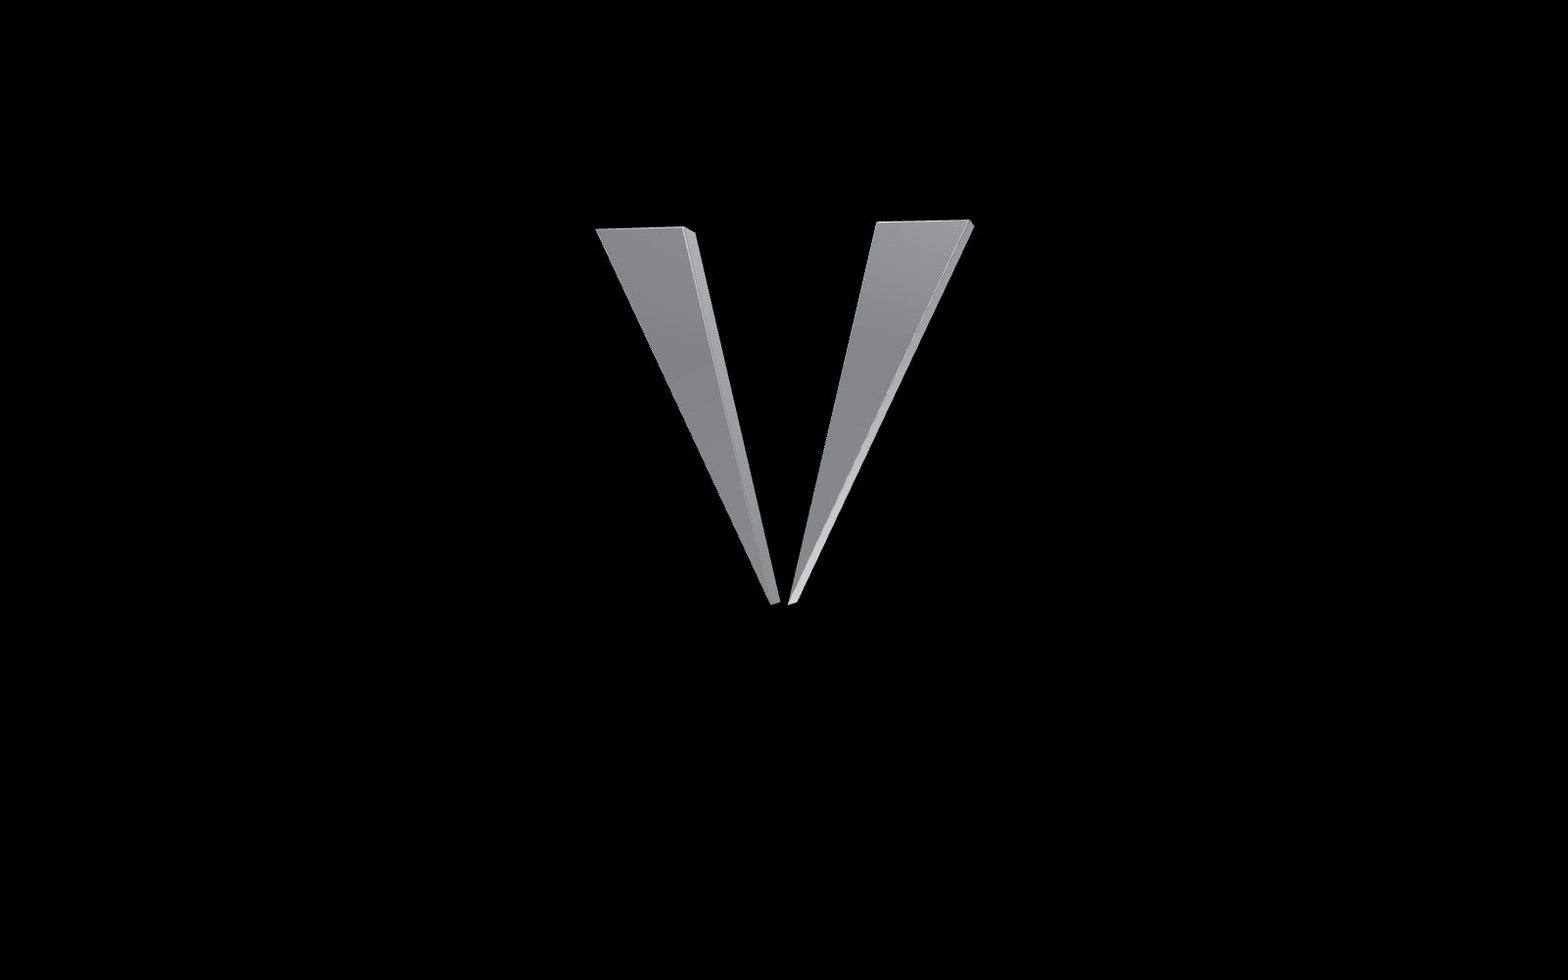
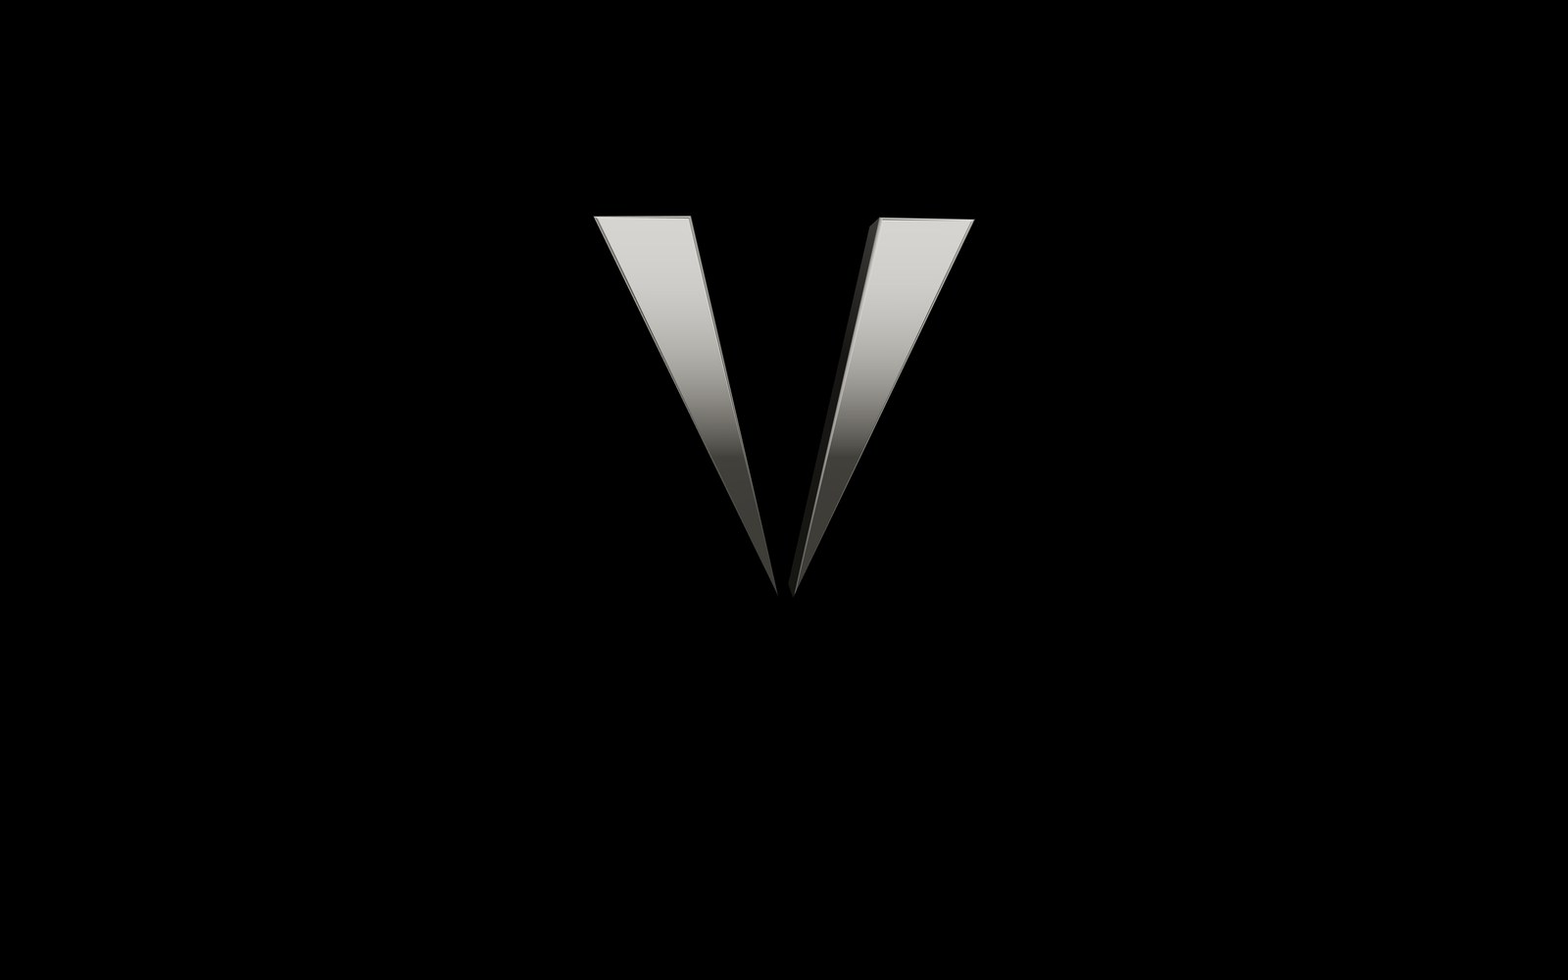
Hero: «La linterna» sustituye a «El corte»; el cursor es una luz que descubre el isotipo de titanio
Claude-Session: https://claude.ai/code/session_01GnbADJLZybL7RCxfxcmveb

Changed region(s): [[0.375, 0.217, 0.625, 0.62]]

diff --git a/web/index.html b/web/index.html
@@ -881,7 +881,7 @@ footer .bot{display:flex;justify-content:space-between;gap:20px;flex-wrap:wrap;m
   var intro = $('intro'), deep = location.hash.length > 1 && D.querySelector(location.hash);
   function ready() {
     root.classList.add('is-ready'); if (!W.HX.go) W.HX.go = performance.now();
-    /* el titular del hero entra cuando termina el corte (lo marca la escena 3D); si no hay 3D, ya */
+    /* el titular del hero entra cuando se enciende la luz (lo marca la escena 3D); si no hay 3D, ya */
     if (!W.HX.cut || RM) root.classList.add('hero-in'); else setTimeout(function () { root.classList.add('hero-in'); }, 9000);
   }
   if (RM || deep || !intro) {
@@ -1431,10 +1431,10 @@ else {
 </script>
 
 <script type="module">
-/* Hero · El corte. Un bloque macizo de titanio liso aparece en la oscuridad; cuatro cuchillas de luz
-   lo atraviesan, con destello y chispas que rebotan en un suelo espejo; el material sobrante se aleja
-   a cámara lenta y queda el isotipo. Con el scroll, las dos cuñas se abren y dejan una línea de luz
-   (la firma que se cierra en Hablemos). La secuencia del corte se reproduce sola al entrar. */
+/* Hero · La linterna. Todo está a oscuras: el isotipo de titanio liso está ahí, pero no se ve. El cursor es
+   una luz que lo va descubriendo por sus reflejos, con un círculo tenue sobre la pared del fondo. Si nadie
+   mueve el ratón (o en el móvil), la luz pasea sola sobre la pieza. Con el scroll, la luz se abre del todo
+   y el isotipo queda entero, en titanio, mientras entra «Precisión. Sin margen.». */
 const D = document, W = window, stage = D.getElementById('stage'), canvas = D.getElementById('gl'), root = D.documentElement, HX = W.HX;
 const heroIn = () => root.classList.add('hero-in');
 const fail = () => { root.classList.add('no-gl'); heroIn(); };
@@ -1443,11 +1443,11 @@ else {
   HX.cut = true;
   try {
     const THREE = await import('three');
-    const [{ Reflector }, { EffectComposer }, { RenderPass }, { UnrealBloomPass }, { OutputPass }] = await Promise.all([
-      import('three/addons/objects/Reflector.js'), import('three/addons/postprocessing/EffectComposer.js'), import('three/addons/postprocessing/RenderPass.js'),
+    const [{ EffectComposer }, { RenderPass }, { UnrealBloomPass }, { OutputPass }] = await Promise.all([
+      import('three/addons/postprocessing/EffectComposer.js'), import('three/addons/postprocessing/RenderPass.js'),
       import('three/addons/postprocessing/UnrealBloomPass.js'), import('three/addons/postprocessing/OutputPass.js')]);
     const cl = (v, a, b) => v < a ? a : v > b ? b : v, sg = (v, a, b) => cl((v - a) / (b - a), 0, 1), lerp = (a, b, t) => a + (b - a) * t;
-    const eIO = t => t < .5 ? 4 * t * t * t : 1 - Math.pow(-2 * t + 2, 3) / 2, eo = t => 1 - Math.pow(1 - t, 4), ss = t => t * t * (3 - 2 * t);
+    const eIO = t => t < .5 ? 4 * t * t * t : 1 - Math.pow(-2 * t + 2, 3) / 2, eo = t => 1 - Math.pow(1 - t, 4);
     const renderer = new THREE.WebGLRenderer({ canvas, antialias: true, powerPreference: 'high-performance' });
     renderer.setPixelRatio(Math.min(W.devicePixelRatio || 1, 2)); renderer.setClearColor(0, 1);
     renderer.outputColorSpace = THREE.SRGBColorSpace; renderer.toneMapping = THREE.ACESFilmicToneMapping; renderer.toneMappingExposure = 1.05;
@@ -1458,125 +1458,68 @@ else {
       pan(7, 7, 0, 7, 1, 1.1); pan(14, 6, 0, 3, 9, .55); pan(6, 10, -7, 1, -2, .35); pan(6, 10, 7, 1, -2, .3); pan(1.1, 9, -6, 1, 1.5, 2.2); pan(.5, 9, 6, .5, 2.5, 2.6);
       pan(12, 4, 0, 2.4, 7, 1.05); pan(3, 7, -5, 0, 5, .5); pan(9, 1.2, 0, -2.5, 7, .35); pan(9, .35, 0, 2.2, -6, 2); pan(.35, 6, 3.5, 1, -5, 1.6); pan(2.5, .25, -2, 4.2, 4, 2);
       const pm = new THREE.PMREMGenerator(renderer), t = pm.fromScene(s, 0).texture; pm.dispose(); return t; })();
-    const scene = new THREE.Scene(); scene.environment = env; scene.fog = new THREE.Fog(0, 5.2, 9.5);
+    const scene = new THREE.Scene(); scene.environment = env;
     const cam = new THREE.PerspectiveCamera(30, 1, .02, 100);
-    const TI = new THREE.Color().setRGB(.80, .79, .76, THREE.SRGBColorSpace);
-    const ti = () => new THREE.MeshPhysicalMaterial({ color: TI, metalness: 1, roughness: .2, clearcoat: .5, clearcoatRoughness: .1, envMapIntensity: 0 });
-    const bm = ti(), wm = ti();
+    /* la luz: un círculo en pantalla (centro uC, radio uR) que enciende el titanio; uA es la luz de fondo */
+    const U = { uC: { value: new THREE.Vector2() }, uR: { value: 1 }, uA: { value: 0 }, uW: { value: 1 } };
+    const mat = new THREE.MeshPhysicalMaterial({ color: new THREE.Color().setRGB(.80, .79, .76, THREE.SRGBColorSpace), metalness: 1, roughness: .2, clearcoat: .5, clearcoatRoughness: .1, envMapIntensity: 1.35 });
+    mat.onBeforeCompile = sh => { Object.assign(sh.uniforms, U);
+      sh.fragmentShader = sh.fragmentShader.replace('#include <common>', '#include <common>\nuniform vec2 uC;uniform float uR,uA;')
+        .replace('#include <opaque_fragment>', 'float lm_=smoothstep(uR,uR*.12,distance(gl_FragCoord.xy,uC));outgoingLight*=uA+lm_*lm_*(1.-uA);\n#include <opaque_fragment>'); };
     const P = (x, y) => [(x - 100) / 152, (96 - y) / 152];
     const shapeOf = pts => { const s = new THREE.Shape(); pts.forEach((p, i) => { const [x, y] = P(p[0], p[1]); if (i) s.lineTo(x, y); else s.moveTo(x, y); }); s.closePath(); return s; };
-    const LT = [[24, 20], [60, 20], [96.2, 172]], RT = [[176, 20], [140, 20], [103.8, 172]];
-    const DEP = .2, EXB = { depth: DEP, bevelEnabled: true, bevelThickness: .012, bevelSize: .012, bevelSegments: 6, curveSegments: 1 }, EXc = { depth: DEP, bevelEnabled: false, curveSegments: 1 };
-    const geo = (pts, ex) => { const g = new THREE.ExtrudeGeometry(shapeOf(pts), ex); g.translate(0, 0, -DEP / 2); g.computeVertexNormals(); return g; };
-    const rootG = new THREE.Group(); scene.add(rootG);
-    const block = new THREE.Mesh(geo([[24, 20], [176, 20], [176, 172], [24, 172]], EXB), bm); rootG.add(block);
-    const isoG = new THREE.Group(); rootG.add(isoG);
-    const piece = (pts, m, ex, par) => { const q = pts.map(p => P(p[0], p[1])), cx = q.reduce((a, p) => a + p[0], 0) / q.length, cy = q.reduce((a, p) => a + p[1], 0) / q.length;
-      const me = new THREE.Mesh(geo(pts, ex), m); me.position.set(-cx, -cy, 0); const g = new THREE.Group(); g.add(me); g.position.set(cx, cy, 0); g.userData.c = [cx, cy]; g.visible = false; par.add(g); return g; };
-    const WL = piece(LT, wm, EXB, isoG), WR = piece(RT, wm, EXB, isoG);
-    const offs = [piece([[24, 20], [96.2, 172], [24, 172]], bm, EXc, rootG), piece([[60, 20], [140, 20], [103.8, 172], [96.2, 172]], bm, EXc, rootG), piece([[176, 20], [176, 172], [103.8, 172]], bm, EXc, rootG)];
-    const drift = [[-1.05, -.2, -2.2, .5, .9, .35], [0, -.62, -2.6, -1, 0, 0], [1.05, -.2, -2.2, .45, -.9, -.35]];
-    /* suelo espejo que se funde con la oscuridad */
-    const FY = -.86, mir = new Reflector(new THREE.PlaneGeometry(30, 30), { textureWidth: mob() ? 512 : 1024, textureHeight: mob() ? 512 : 1024, color: 0x8c8c8c, clipBias: .003 });
-    mir.rotation.x = -Math.PI / 2; mir.position.y = FY; rootG.add(mir);
-    const fc = D.createElement('canvas'); fc.width = fc.height = 512; const fx = fc.getContext('2d'), gr = fx.createRadialGradient(256, 256, 20, 256, 256, 256);
-    gr.addColorStop(0, 'rgba(0,0,0,.45)'); gr.addColorStop(.55, 'rgba(0,0,0,.8)'); gr.addColorStop(1, 'rgba(0,0,0,1)'); fx.fillStyle = gr; fx.fillRect(0, 0, 512, 512);
-    const fade = new THREE.Mesh(new THREE.PlaneGeometry(9, 9), new THREE.MeshBasicMaterial({ map: new THREE.CanvasTexture(fc), transparent: true, depthWrite: false, fog: false }));
-    fade.rotation.x = -Math.PI / 2; fade.position.y = FY + .003; rootG.add(fade);
-    const hide = new THREE.Mesh(new THREE.PlaneGeometry(40, 40), new THREE.MeshBasicMaterial({ color: 0, transparent: true, opacity: 0, depthWrite: false, fog: false })); hide.rotation.x = -Math.PI / 2; hide.position.y = FY + .006; rootG.add(hide);
-    const key = new THREE.DirectionalLight(0xffffff, 0); key.position.set(-3, 3, 3); const sweep = new THREE.DirectionalLight(0xffffff, 0); scene.add(key, sweep);
-    /* tiras de luz: la costura de cada corte y su filo incandescente */
-    const ribbon = (a, b, w) => { const l = Math.hypot(b[0] - a[0], b[1] - a[1]), n = Math.ceil(l / .008), dx = (b[0] - a[0]) / l, dy = (b[1] - a[1]) / l, nx = -dy * w / 2, ny = dx * w / 2, pos = [], s = [], idx = [];
-      for (let i = 0; i <= n; i++) { const t = i / n, x = a[0] + (b[0] - a[0]) * t, y = a[1] + (b[1] - a[1]) * t; pos.push(x + nx, y + ny, 0, x - nx, y - ny, 0); s.push(t, t); if (i < n) idx.push(i * 2, i * 2 + 1, i * 2 + 2, i * 2 + 1, i * 2 + 3, i * 2 + 2); }
-      const g = new THREE.BufferGeometry(); g.setAttribute('position', new THREE.Float32BufferAttribute(pos, 3)); g.setAttribute('aS', new THREE.Float32BufferAttribute(s, 1)); g.setIndex(idx); return g; };
-    const vs = 'attribute float aS;varying float vS;void main(){vS=aS;gl_Position=projectionMatrix*modelViewMatrix*vec4(position,1.);}';
-    const TC = [1.8, 2.35, 2.9, 3.45], DUR = .2, zf = DEP / 2 + .013;
-    const cuts = [[[24, 20], [96.2, 172]], [[60, 20], [96.2, 172]], [[140, 20], [103.8, 172]], [[176, 20], [103.8, 172]]].map(c => {
-      const a = P(c[0][0], c[0][1]), b = P(c[1][0], c[1][1]);
-      const seam = new THREE.Mesh(ribbon(a, b, .006), new THREE.ShaderMaterial({ uniforms: { uC: { value: 0 }, uO: { value: 1 } }, transparent: true, depthWrite: false, vertexShader: vs,
-        fragmentShader: 'uniform float uC,uO;varying float vS;void main(){if(vS>uC)discard;gl_FragColor=vec4(vec3(.004),.95*uO);}' }));
-      const hot = new THREE.Mesh(ribbon(a, b, .016), new THREE.ShaderMaterial({ uniforms: { uC: { value: 0 }, uH: { value: 0 } }, transparent: true, depthWrite: false, blending: THREE.AdditiveBlending, vertexShader: vs,
-        fragmentShader: 'uniform float uC,uH;varying float vS;void main(){if(vS>uC)discard;float tip=exp(-(uC-vS)*14.);gl_FragColor=vec4(vec3(1.,.97,.93)*(uH*2.6+tip*uH*4.),1.);}' }));
-      seam.position.z = DEP / 2 + .0125; hot.position.z = zf; seam.renderOrder = 2; hot.renderOrder = 3; rootG.add(seam, hot);
-      const len = Math.hypot(b[0] - a[0], b[1] - a[1]), ang = Math.atan2(b[1] - a[1], b[0] - a[0]);
-      const sheet = new THREE.Mesh(new THREE.PlaneGeometry(len * 1.3, 1.6), new THREE.ShaderMaterial({ uniforms: { uO: { value: 0 }, uC: { value: 0 } }, transparent: true, depthWrite: false, blending: THREE.AdditiveBlending, side: THREE.DoubleSide,
-        vertexShader: 'varying vec2 vU;void main(){vU=uv;gl_Position=projectionMatrix*modelViewMatrix*vec4(position,1.);}',
-        fragmentShader: 'uniform float uO,uC;varying vec2 vU;void main(){float al=1.-smoothstep(uC-.02,uC+.02,vU.x);float d=abs(vU.y-.5)*2.;gl_FragColor=vec4(vec3(1.,.98,.95)*pow(1.-d,3.)*al*uO*.9,1.);}' }));
-      sheet.position.set((a[0] + b[0]) / 2, (a[1] + b[1]) / 2, 0); sheet.rotation.set(0, 0, ang); sheet.rotateX(Math.PI / 2); rootG.add(sheet);
-      return { seam, hot, sheet, a, b };
-    });
-    const flash = new THREE.PointLight(0xffffff, 0, 3, 1.4); rootG.add(flash);
-    /* chispas: segmentos de luz con gravedad que rebotan en el suelo */
-    const NS = 900, sp = new Float32Array(NS * 6), sc = new Float32Array(NS * 6), sv = []; for (let i = 0; i < NS; i++) sv.push({ x: 0, y: 0, z: 0, vx: 0, vy: 0, vz: 0, l: 0, L: 1 });
-    const sgeo = new THREE.BufferGeometry(); sgeo.setAttribute('position', new THREE.BufferAttribute(sp, 3)); sgeo.setAttribute('color', new THREE.BufferAttribute(sc, 3));
-    const sparks = new THREE.LineSegments(sgeo, new THREE.LineBasicMaterial({ vertexColors: true, transparent: true, blending: THREE.AdditiveBlending, depthWrite: false, toneMapped: false, fog: false }));
-    sparks.frustumCulled = false; rootG.add(sparks);
-    /* la línea de luz que queda entre las dos mitades al abrirse */
-    const lc = D.createElement('canvas'); lc.width = 64; lc.height = 256; const lx = lc.getContext('2d'), id = lx.createImageData(64, 256);
-    for (let y = 0; y < 256; y++) for (let x = 0; x < 64; x++) { const gx = Math.exp(-Math.pow((x - 31.5) / 9, 2)), gy = Math.pow(Math.sin(Math.PI * y / 255), 1.6), o = (y * 64 + x) * 4; id.data[o] = id.data[o + 1] = id.data[o + 2] = 255; id.data[o + 3] = Math.round(255 * gx * gy); }
-    lx.putImageData(id, 0, 0); const ltex = new THREE.CanvasTexture(lc); ltex.colorSpace = THREE.SRGBColorSpace;
-    const lmat = new THREE.MeshBasicMaterial({ map: ltex, transparent: true, opacity: 0, depthWrite: false, toneMapped: false, blending: THREE.AdditiveBlending, fog: false });
-    const line = new THREE.Mesh(new THREE.PlaneGeometry(1, 1), lmat), glow = new THREE.Mesh(new THREE.PlaneGeometry(1, 1), lmat.clone()); line.position.z = glow.position.z = .02; isoG.add(glow, line);
+    const DEP = .2, EXB = { depth: DEP, bevelEnabled: true, bevelThickness: .012, bevelSize: .012, bevelSegments: 6, curveSegments: 1 };
+    const iso = new THREE.Group(); scene.add(iso);
+    [[[24, 20], [60, 20], [96.2, 172]], [[176, 20], [140, 20], [103.8, 172]]].forEach(T => { const g = new THREE.ExtrudeGeometry(shapeOf(T), EXB); g.translate(0, 0, -DEP / 2); g.computeVertexNormals(); iso.add(new THREE.Mesh(g, mat)); });
+    /* el círculo de luz sobre la pared negra del fondo */
+    const wall = new THREE.Mesh(new THREE.PlaneGeometry(60, 60), new THREE.ShaderMaterial({ uniforms: U, depthWrite: false, toneMapped: false,
+      vertexShader: 'void main(){gl_Position=projectionMatrix*modelViewMatrix*vec4(position,1.);}',
+      fragmentShader: 'uniform vec2 uC;uniform float uR,uW;void main(){float d=distance(gl_FragCoord.xy,uC)/uR;gl_FragColor=vec4(vec3(.055*exp(-d*d*1.6)+.012*exp(-d*d*.25))*uW,1.);}' }));
+    wall.position.z = -2.5; wall.renderOrder = -1; wall.frustumCulled = false; scene.add(wall);
+    /* una luz puntual delante, donde apunta el cursor, para los brillos; y la del estudio para el final */
+    const pl = new THREE.PointLight(0xffffff, 0, 0, 0), key = new THREE.DirectionalLight(0xffffff, 0), sweep = new THREE.DirectionalLight(0xffffff, 0);
+    key.position.set(-3, 3, 3); scene.add(pl, key, sweep);
     const comp = new EffectComposer(renderer); comp.addPass(new RenderPass(scene, cam));
     const bloom = new UnrealBloomPass(new THREE.Vector2(256, 256), .5, .42, 1.3); comp.addPass(bloom); comp.addPass(new OutputPass());
-    let Z0 = 5, BASE = .3, SPL = .78;
+    let Z0 = 5, BASE = .3, Wd = 1, Hd = 1, AX = .2, AY = .3;
     function size() {
       const w = stage.clientWidth, h = stage.clientHeight; renderer.setSize(w, h, false); cam.aspect = w / h;
       const t = Math.tan(THREE.MathUtils.degToRad(15)); Z0 = Math.max(1 / (mob() ? .27 : .31) / (2 * t), 1 / (mob() ? .56 : .58) / (2 * t * cam.aspect));
-      BASE = (mob() ? .12 : .135) * 2 * Z0 * t; SPL = .78 * Math.min(1, Math.max(.4, (w / h) / 1.6));
-      scene.fog.near = Z0 + .7; scene.fog.far = Z0 + 5; cam.updateProjectionMatrix(); comp.setPixelRatio(renderer.getPixelRatio()); comp.setSize(w, h);
+      BASE = (mob() ? .12 : .135) * 2 * Z0 * t; cam.updateProjectionMatrix(); comp.setPixelRatio(renderer.getPixelRatio()); comp.setSize(w, h);
+      const pr = renderer.getPixelRatio(); Wd = w * pr; Hd = h * pr; AX = .5 / (Z0 * t * cam.aspect); AY = .5 / (Z0 * t);
     }
     size(); W.addEventListener('resize', size);
     let vis = true; new IntersectionObserver(es => { vis = es[0].isIntersecting; }).observe(stage);
     root.classList.add('gl-on');
-    let last = 0, Tl = -1, si = 0, sx = 0, sy = 0, shown = false; const far = new THREE.Vector3(), near = new THREE.Vector3();
+    /* ¿hay un ratón moviéndose? Si no (o en pantallas táctiles), la luz pasea sola */
+    let lastIn = -1e9; const fine = W.matchMedia('(hover:hover) and (pointer:fine)').matches;
+    W.addEventListener('pointermove', e => { if (e.pointerType === 'mouse') lastIn = performance.now(); }, { passive: true });
+    let last = 0, cx = 0, cy = 0, shown = false, sx = 0; const ray = new THREE.Vector3(), c0 = new THREE.Vector3();
     function tick(now) {
       requestAnimationFrame(tick);
       const dt = Math.min(.05, (now - (last || now)) / 1000); last = now;
-      const p = HX.p, tg = HX.go ? (now - HX.go) / 1000 : 0;
-      const T = Math.max(tg, 7 * sg(p, 0, .12));                    /* el scroll adelanta el corte si hace falta */
-      if (!shown && T > 4.6) { shown = true; heroIn(); }
-      if (!vis) { Tl = T; return; }
-      const jump = T - Tl > .35; Tl = T;
-      sx += (HX.mx - sx) * .05; sy += (HX.my - sy) * .05;
-      /* 1 · el bloque aparece: la cámara sale del canto y lo descubre entero */
-      const rev = eo(sg(T, .1, 1.4)); bm.envMapIntensity = wm.envMapIntensity = 1.35 * rev; key.intensity = .7 * rev;
-      /* 2 · cuatro cortes de luz */
-      let fl = 0;
-      cuts.forEach((c, j) => {
-        const s = sg(T, TC[j] - DUR / 2, TC[j] + DUR / 2), h = T >= TC[j] - DUR / 2 ? Math.exp(-Math.max(0, T - TC[j]) / .45) : 0, off = 1 - sg(T, 3.9, 4.4);
-        c.seam.material.uniforms.uC.value = c.hot.material.uniforms.uC.value = s; c.hot.material.uniforms.uH.value = h * off; c.seam.material.uniforms.uO.value = off;
-        const st = Math.sin(Math.PI * s); c.sheet.material.uniforms.uO.value = st; c.sheet.material.uniforms.uC.value = s * 1.15; c.sheet.visible = st > .001; fl += st;
-        if (s > 0 && s < 1) { flash.position.set(lerp(c.a[0], c.b[0], s), lerp(c.a[1], c.b[1], s), .3);
-          if (!jump) { const n = Math.round(dt * 5200); for (let q = 0; q < n; q++) { const S = sv[si]; si = (si + 1) % NS; const tt = Math.random() * s, a = Math.random() * Math.PI * 2, v = .5 + Math.random() * 1.8;
-            S.x = lerp(c.a[0], c.b[0], tt); S.y = lerp(c.a[1], c.b[1], tt); S.z = zf; S.vx = Math.cos(a) * v * .55; S.vy = Math.abs(Math.sin(a)) * v * .6 + .2; S.vz = .2 + Math.random() * 1.3; S.l = S.L = .7 + Math.random() * 1.1; } } }
-      });
-      flash.intensity = fl * 1.1; bloom.strength = .5 + fl * .15;
-      const dr = Math.min(.25, (now - (HX.lastS || now)) / 1000); HX.lastS = now; const late = T > 5.2;
-      for (let i = 0; i < NS; i++) { const s = sv[i], o = i * 6; if (late) s.l = 0; if (s.l > 0) { s.l -= dr; s.vy -= 3.2 * dr; s.x += s.vx * dr; s.y += s.vy * dr; s.z += s.vz * dr; if (s.y < FY + .004 && s.vy < 0) { s.y = FY + .004; s.vy *= -.32; s.vx *= .7; s.vz *= .7; } }
-        const k = Math.max(0, s.l / s.L), b = k * k * 3; sp[o] = s.x; sp[o + 1] = s.y; sp[o + 2] = s.z; sp[o + 3] = s.x - s.vx * .028; sp[o + 4] = s.y - s.vy * .028; sp[o + 5] = s.z - s.vz * .028; sc[o] = sc[o + 1] = b; sc[o + 2] = b * .93; sc[o + 3] = sc[o + 4] = sc[o + 5] = 0; }
-      sgeo.attributes.position.needsUpdate = true; sgeo.attributes.color.needsUpdate = true;
-      /* 3 · el material sobrante se aleja a cámara lenta */
-      const rel = T >= 3.95; block.visible = !rel; WL.visible = WR.visible = rel;
-      const q = eIO(sg(T, 4, 6.2)); offs.forEach((g, i) => { const d = drift[i]; g.visible = rel && q < .995; g.position.set(g.userData.c[0] + d[0] * q, g.userData.c[1] + d[1] * q, d[2] * q); g.rotation.set(d[3] * q, d[4] * q, d[5] * q); });
-      /* 4 · el isotipo gira y la luz lo recorre; después, el scroll lo abre */
-      const tw = sg(T, 4.2, 6.8), front = 1 - cl(p / .45, 0, 1), done = sg(T, 6, 7);
-      const spl = ss(sg(p, .5, .92)), ln = sg(p, .48, .78), k = sg(p, .05, .55);
-      isoG.rotation.y = Math.sin(Math.PI * tw) * -.42 + done * front * (Math.sin(now / 1000 * .42) * .12 + sx * .3);
-      isoG.rotation.x = done * front * sy * .12;
-      sweep.position.set(lerp(4, -4, tw), 2, 2.5); sweep.intensity = 1.2 * Math.sin(Math.PI * tw);
-      WL.position.set(WL.userData.c[0] - .03 * tw - SPL * spl, WL.userData.c[1], -.12 * spl); WR.position.set(WR.userData.c[0] + .03 * tw + SPL * spl, WR.userData.c[1], -.12 * spl);
-      WL.rotation.y = .42 * spl; WR.rotation.y = -.42 * spl;
-      line.scale.set(.018, .04 + 2.5 * eo(ln), 1); line.material.opacity = Math.min(1, ln * 1.6);
-      glow.scale.set(.34, .04 + 1.9 * eo(ln), 1); glow.material.opacity = .22 * ln; line.visible = glow.visible = ln > .001;
-      rootG.scale.setScalar(1 + .22 * k); rootG.position.y = .06 * k;
-      hide.material.opacity = sg(T, 5, 7.5); mir.visible = hide.material.opacity < .99;
-      /* cámara: del macro del canto al plano entero */
-      const e = eIO(sg(T, 0, 1.6)), yaw = lerp(.22, -.06, eIO(sg(T, 3.9, 6.8)));
-      far.set(Math.sin(yaw) * Z0, .14, Math.cos(yaw) * Z0).multiplyScalar(1 - .06 * sg(T, 3.9, 6.8));
-      near.set(-.15, .62, 1.05); near.lerp(far, e);
-      if (fl > 0) { near.x += (Math.random() - .5) * .012 * fl; near.y += (Math.random() - .5) * .012 * fl; }
-      cam.position.copy(near); cam.lookAt(lerp(-.36, 0, e), lerp(.46, -.04 - BASE, e), 0);
+      const p = HX.p, T = HX.go ? (now - HX.go) / 1000 : 0;
+      if (!shown && T > 1.7) { shown = true; heroIn(); }
+      if (!vis) return;
+      /* la cámara: de frente, con el isotipo por encima del titular */
+      cam.position.set(0, .14, Z0); cam.lookAt(0, -.04 - BASE, 0);
+      /* el centro del isotipo en pantalla (coordenadas de -1 a 1), alrededor del cual pasea la luz */
+      c0.set(0, 0, 0).project(cam); const ox = c0.x, oy = -c0.y;
+      const live = fine && now - lastIn < 3500, open = eIO(sg(p, .04, .46));
+      let tx, ty;
+      if (live) { tx = HX.mx; ty = HX.my; }
+      else { const w = 1 - open, a = T * .62; tx = ox + (Math.sin(a) * .85 + Math.sin(a * .37 + 1.3) * .25) * AX * w; ty = oy + Math.sin(a * .81 + .6) * .55 * AY * w; }
+      const k = 1 - Math.exp(-dt * (live ? 7 : 3)); cx += (tx - cx) * k; cy += (ty - cy) * k;
+      U.uC.value.set((cx * .5 + .5) * Wd, (1 - (cy * .5 + .5)) * Hd);
+      /* se enciende al entrar; el scroll la abre hasta descubrir la pieza entera */
+      const on = eo(sg(T, .15, 1.3));
+      U.uR.value = Hd * lerp(mob() ? .2 : .25, 1.6, open) * on; U.uA.value = .02 + .55 * open; U.uW.value = 1 - open;
+      ray.set(cx, -cy, .5).unproject(cam).sub(cam.position).normalize(); pl.position.copy(cam.position).addScaledVector(ray, Z0 * .55); pl.intensity = .28 * on * (1 - open);
+      key.intensity = .5 * open; const sw = sg(p, .3, .9); sweep.position.set(lerp(4, -4, sw), 2, 2.5); sweep.intensity = 1.1 * Math.sin(Math.PI * sw);
+      /* la pieza se inclina hacia la luz; abierta, crece un poco */
+      sx += ((live ? HX.mx : 0) - sx) * .05;
+      iso.rotation.set(-(cy - oy) * .08 * (1 - open), (cx - ox) * .14 * (1 - open) + open * (Math.sin(now / 1000 * .4) * .08 + sx * .2), 0);
+      const g = sg(p, .05, .6); iso.scale.setScalar(1 + .18 * g); iso.position.y = .05 * g;
       comp.render();
     }
     requestAnimationFrame(tick);

diff --git a/README.md b/README.md
@@ -30,11 +30,9 @@ python3 -m http.server 8000
 - Respeta `prefers-reduced-motion`.
 - El formulario de contacto es de maqueta: valida, pero no envía.
 
-## Hero · «El corte»
+## Hero · «La linterna»
 
-El isotipo se esculpe en directo en un bloque macizo de titanio liso (three.js 0.160, sin compilación). Tras la apertura, la cámara sale de un macro del canto del bloque y lo descubre entero; cuatro cuchillas de luz lo atraviesan, cada una con su destello y una lluvia de chispas que rebotan en un suelo espejo; el material sobrante se aleja a cámara lenta y queda el isotipo, que gira mientras la luz del estudio lo recorre. El titular entra cuando termina el corte (unos 4,6 s) y el scroll adelanta la secuencia si hace falta. Después, con el scroll, las dos cuñas se abren y dejan una línea de luz («Precisión. Sin margen.»). Iluminación de estudio propia (paneles de luz en un PMREM) y resplandor con UnrealBloomPass. Si el dispositivo no tiene WebGL o pide movimiento reducido, se muestra `img/hero-poster.jpg`.
-
-Tipografía: la del sistema de Apple (SF Pro en Mac, iPhone e iPad) con Inter (Google Fonts) como equivalente en el resto.
+Todo empieza a oscuras: el isotipo de titanio liso está ahí, pero no se ve. El cursor es una luz que lo va descubriendo por sus reflejos (un círculo en pantalla que enciende el metal, una luz puntual para los brillos y un halo tenue sobre la pared del fondo); la pieza se inclina un poco hacia la luz. Si nadie mueve el ratón, o en pantallas táctiles, la luz pasea sola sobre el isotipo. El titular entra cuando se enciende la luz (unos 1,7 s tras la apertura). Con el scroll, la luz se abre hasta descubrir la pieza entera y entra «Precisión. Sin margen.». three.js 0.160 sin compilación, iluminación de estudio propia (paneles de luz en un PMREM) y resplandor con UnrealBloomPass. Si el dispositivo no tiene WebGL o pide movimiento reducido, se muestra `img/hero-poster.jpg`.
 
 ## Lenguaje de movimiento
 
